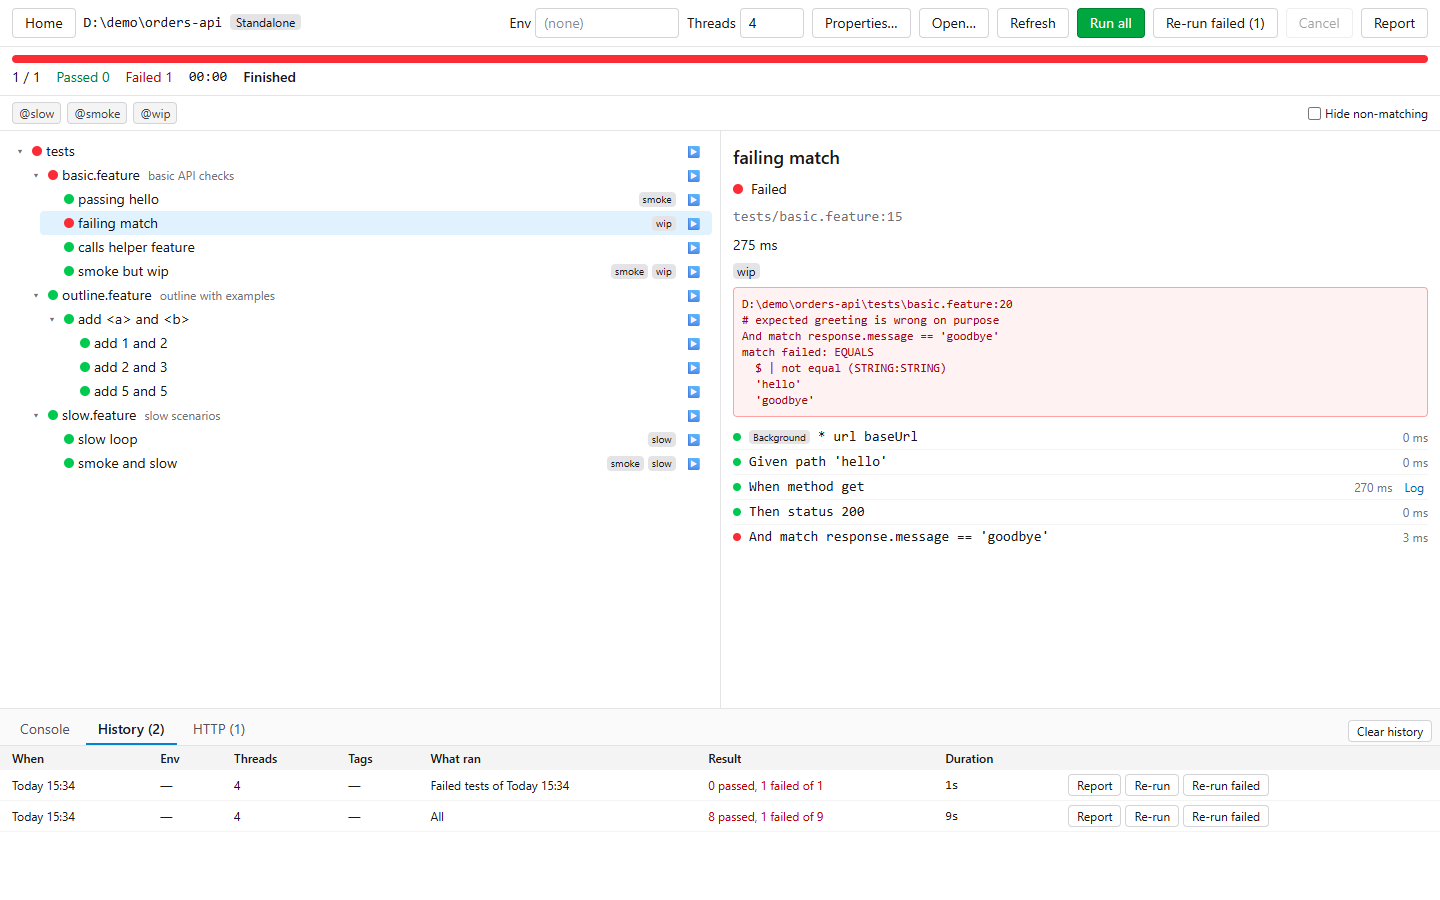
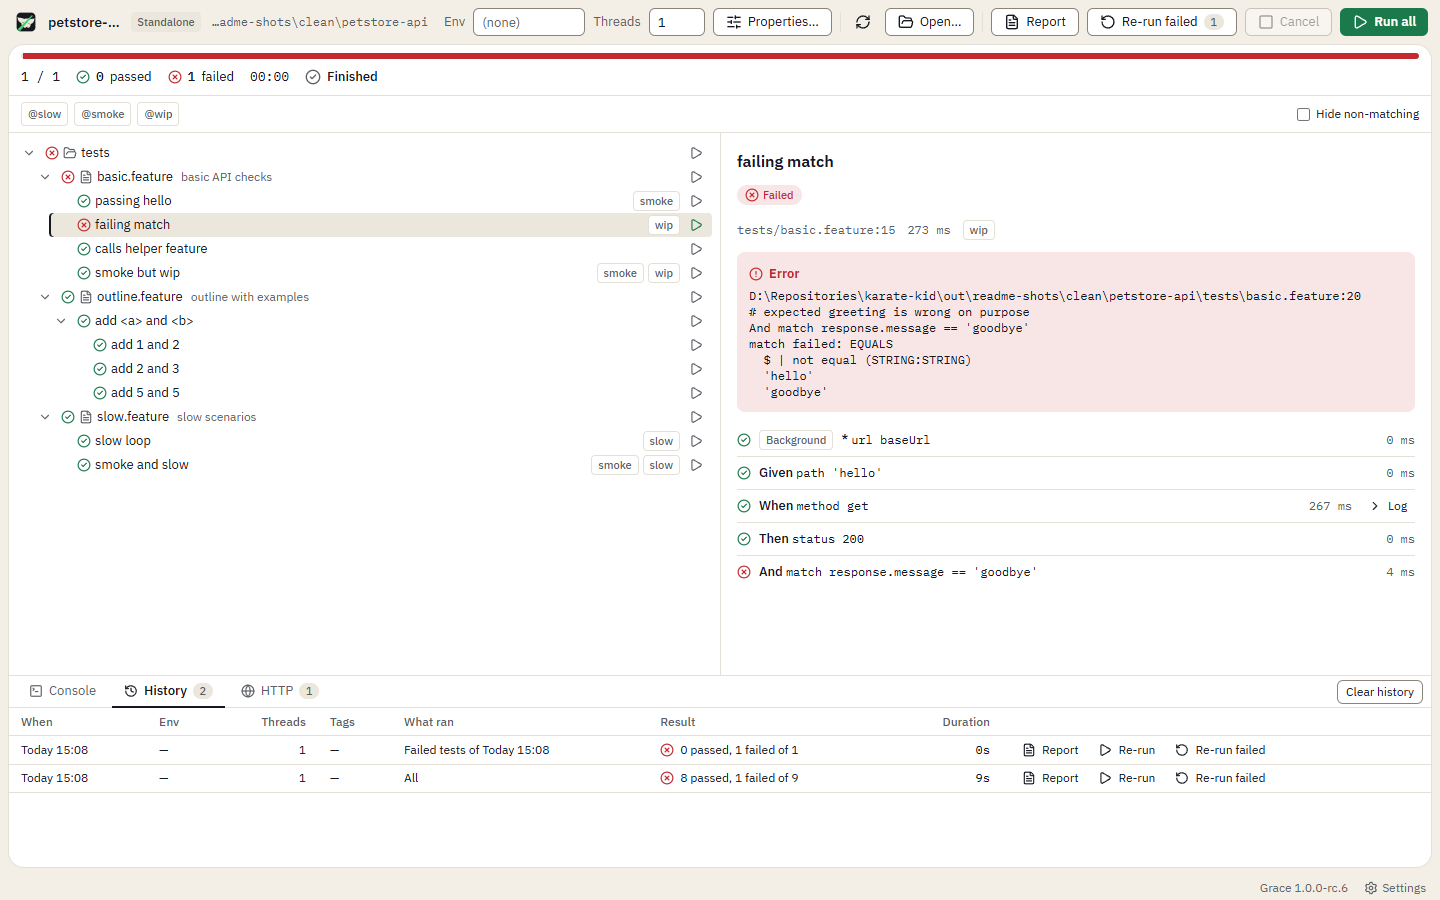
docs(readme): bring the readme up to 1.0.0-rc.6
Updates in the app replace the note that there are none, and leave the
roadmap for big projects (#123, #124, #125). The feature table adds
updates and the theme choice, and folds Karate's report into the
history. The six screenshots show the new look.

Closes #137

🤖 Generated with [Claude Code](https://claude.com/claude-code)

diff --git a/README.md b/README.md
@@ -96,8 +96,8 @@ Every call of the run, grouped by status class. Headers, bodies as pretty JSON o
 <tr>
 <td valign="top">
 
-**History**<br>
-The last 20 runs of each project. Open a past report, re-run a run on its environment and tags, or re-run only what failed.
+**History and reports**<br>
+The last 20 runs of each project. Open Karate's HTML report of any of them, re-run a run on its environment and tags, or re-run only what failed.
 
 </td>
 <td valign="top">
@@ -110,14 +110,14 @@ A test that passed in one run and failed in another, with the same project files
 <tr>
 <td valign="top">
 
-**Karate's HTML report**<br>
-One click away, for the current run or any run in the history.
+**Updates in the app**<br>
+Grace checks for a new version at startup. Update in one click, or let Grace update itself. Your data is backed up first, and you can roll back to an earlier version.
 
 </td>
 <td valign="top">
 
 **Made for long sessions**<br>
-A home screen with your recent folders, light and dark themes, resizable panels, and a window that opens where you left it.
+A home screen with your recent folders, light and dark themes that follow Windows or your choice, resizable panels, and a window that opens where you left it.
 
 </td>
 </tr>
@@ -146,7 +146,7 @@ A home screen with your recent folders, light and dark themes, resizable panels,
 Grace runs on Windows 11 (x64). The app is not code-signed yet, so Windows SmartScreen can stop the first start: click **More info**, then **Run anyway**.
 
 > [!NOTE]
-> Every version is a release candidate of 1.0.0 for now. There are no automatic updates: download the new zip to upgrade. Settings and run history from an older release candidate may not carry over.
+> Every version is a release candidate of 1.0.0 for now. From 1.0.0-rc.6, Grace updates itself: click **Update** in the status bar, or open **Settings › Updates**. On 1.0.0-rc.5 or older, download the new zip instead. Settings and run history from an older release candidate may not carry over.
 
 ## How it works
 
@@ -173,7 +173,7 @@ Next on the list:
 
 - **Project setup** for Maven, Gradle, a standalone jar and the Karate CLI ([#64](https://github.com/hpagniez/grace/issues/64)).
 - **Step debugger**: breakpoints on steps, step over, inspect variables ([#65](https://github.com/hpagniez/grace/issues/65)).
-- **App updates**: a way for new versions to reach you ([#77](https://github.com/hpagniez/grace/issues/77)).
+- **Big projects**: smooth runs with thousands of tests ([#123](https://github.com/hpagniez/grace/issues/123), [#124](https://github.com/hpagniez/grace/issues/124), [#125](https://github.com/hpagniez/grace/issues/125)).
 - **Keyboard navigation** in the test tree and the HTTP list ([#91](https://github.com/hpagniez/grace/issues/91)).
 
 The full backlog is one [issue](https://github.com/hpagniez/grace/issues) per feature, on the [Grace project](https://github.com/users/hpagniez/projects/2) board.
